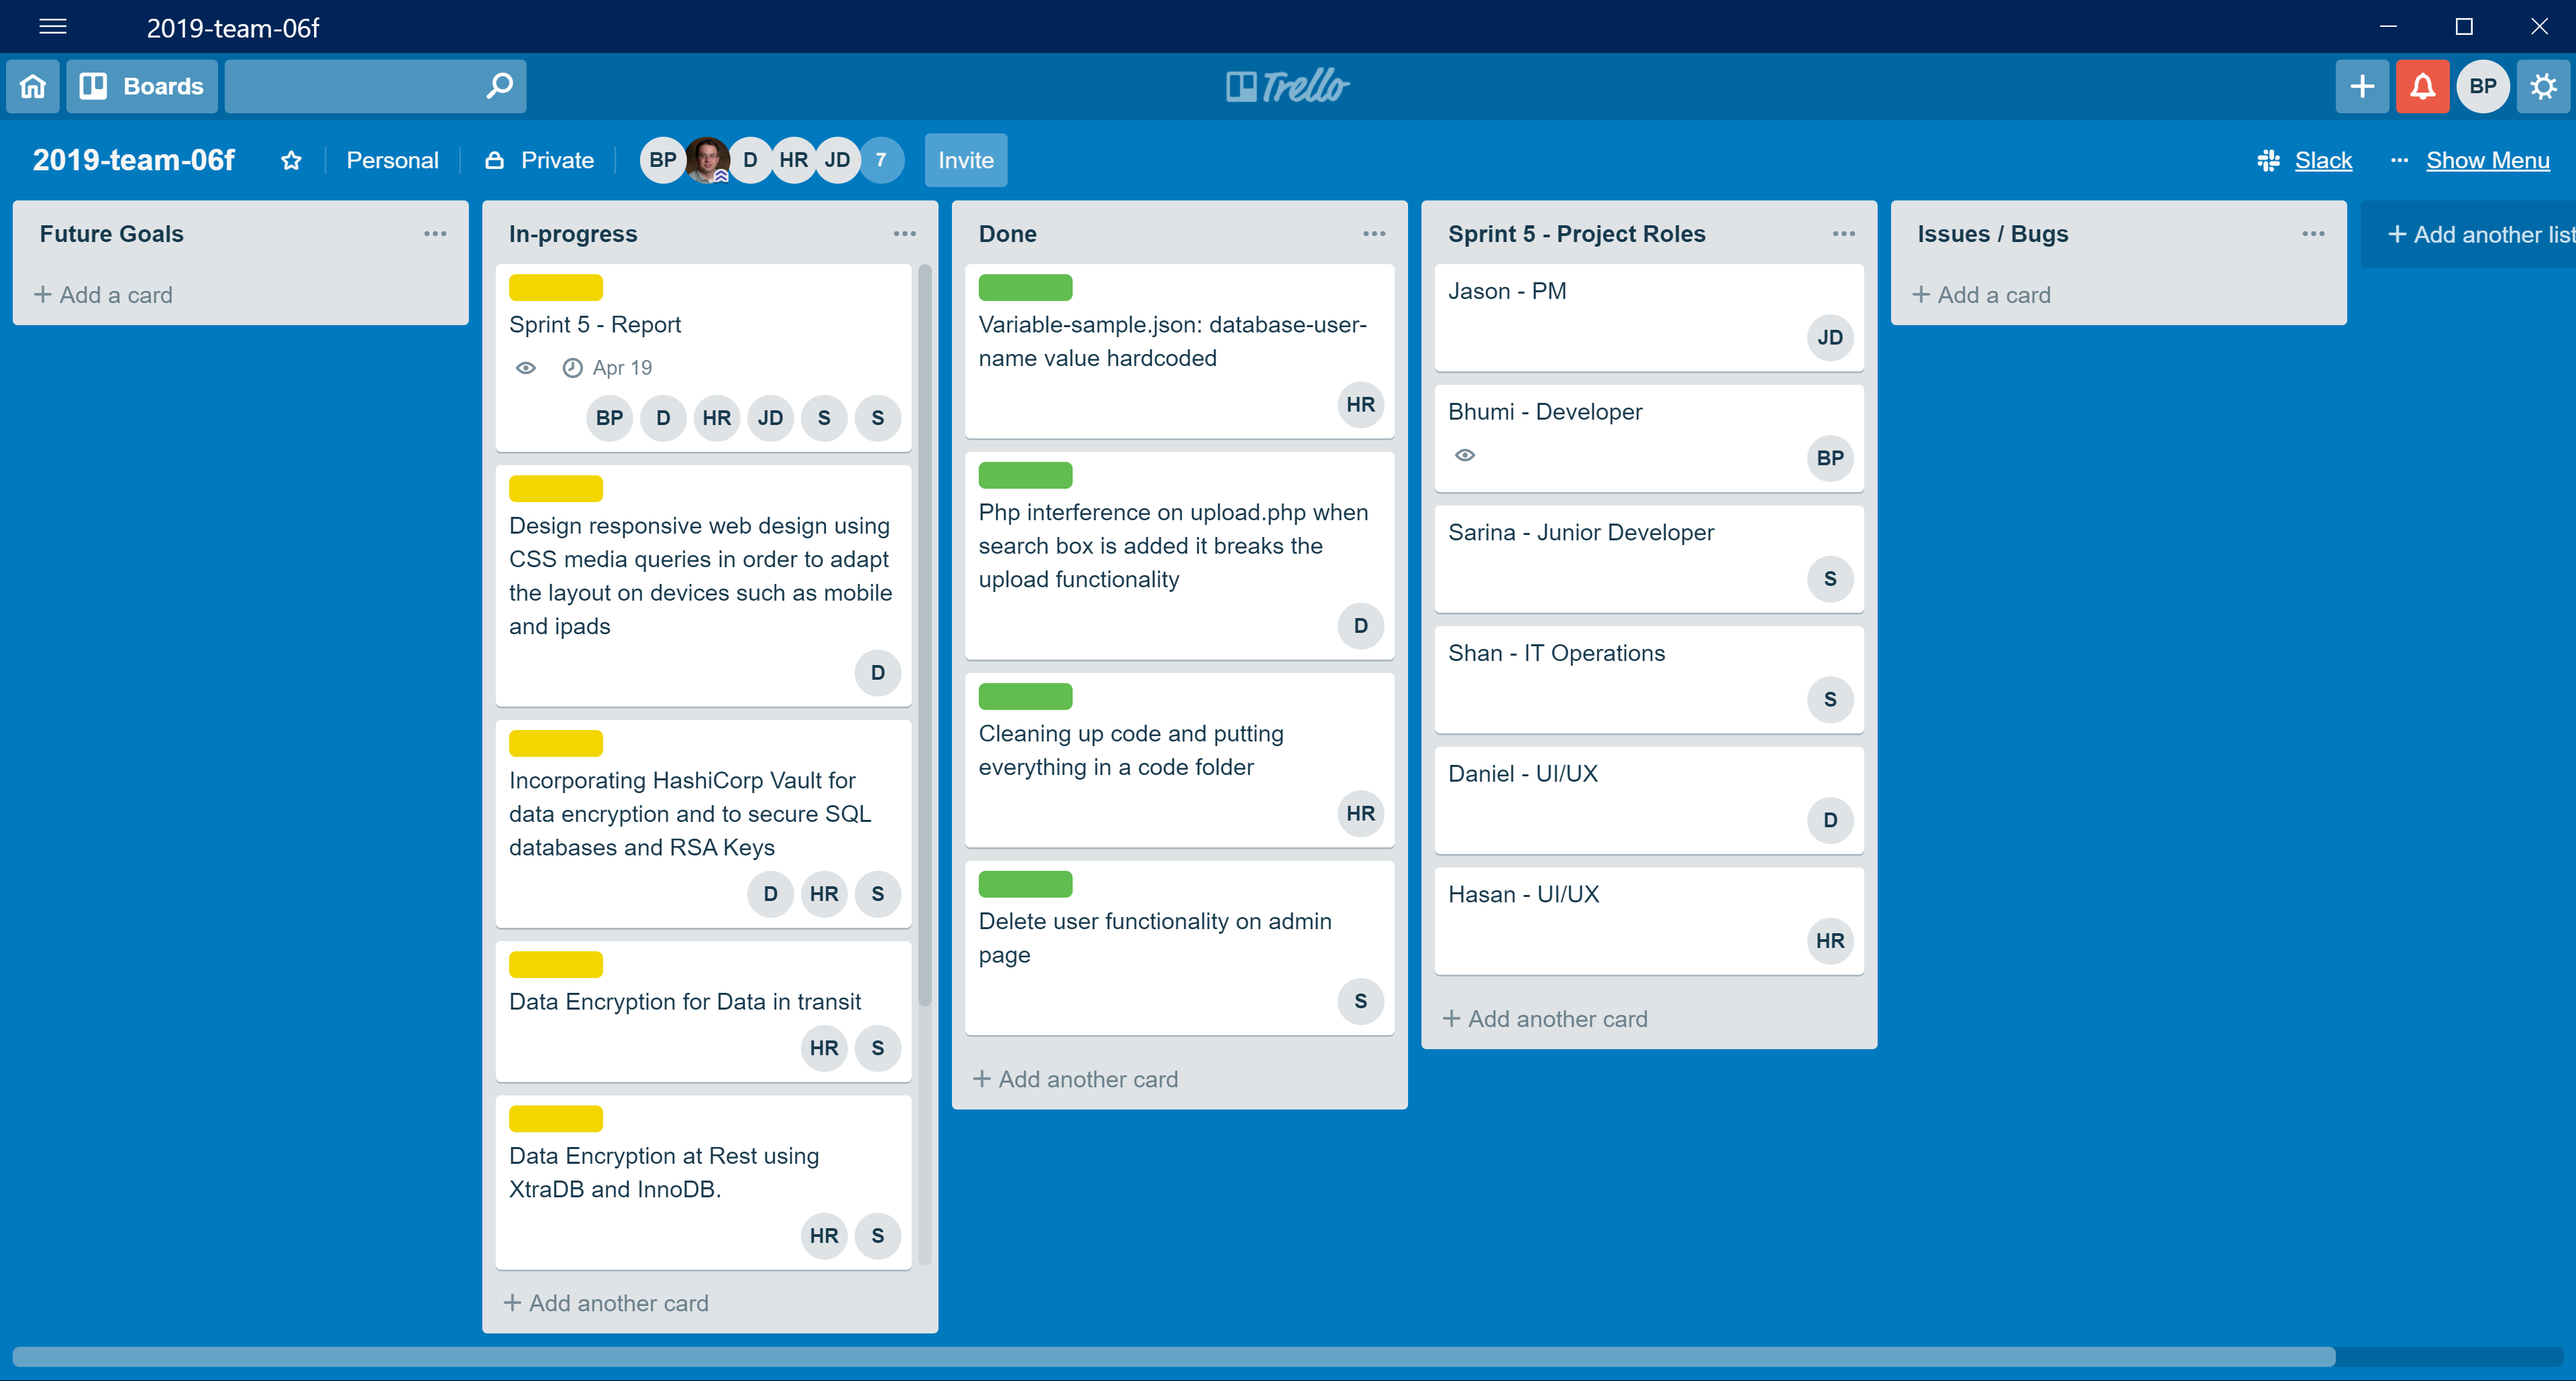
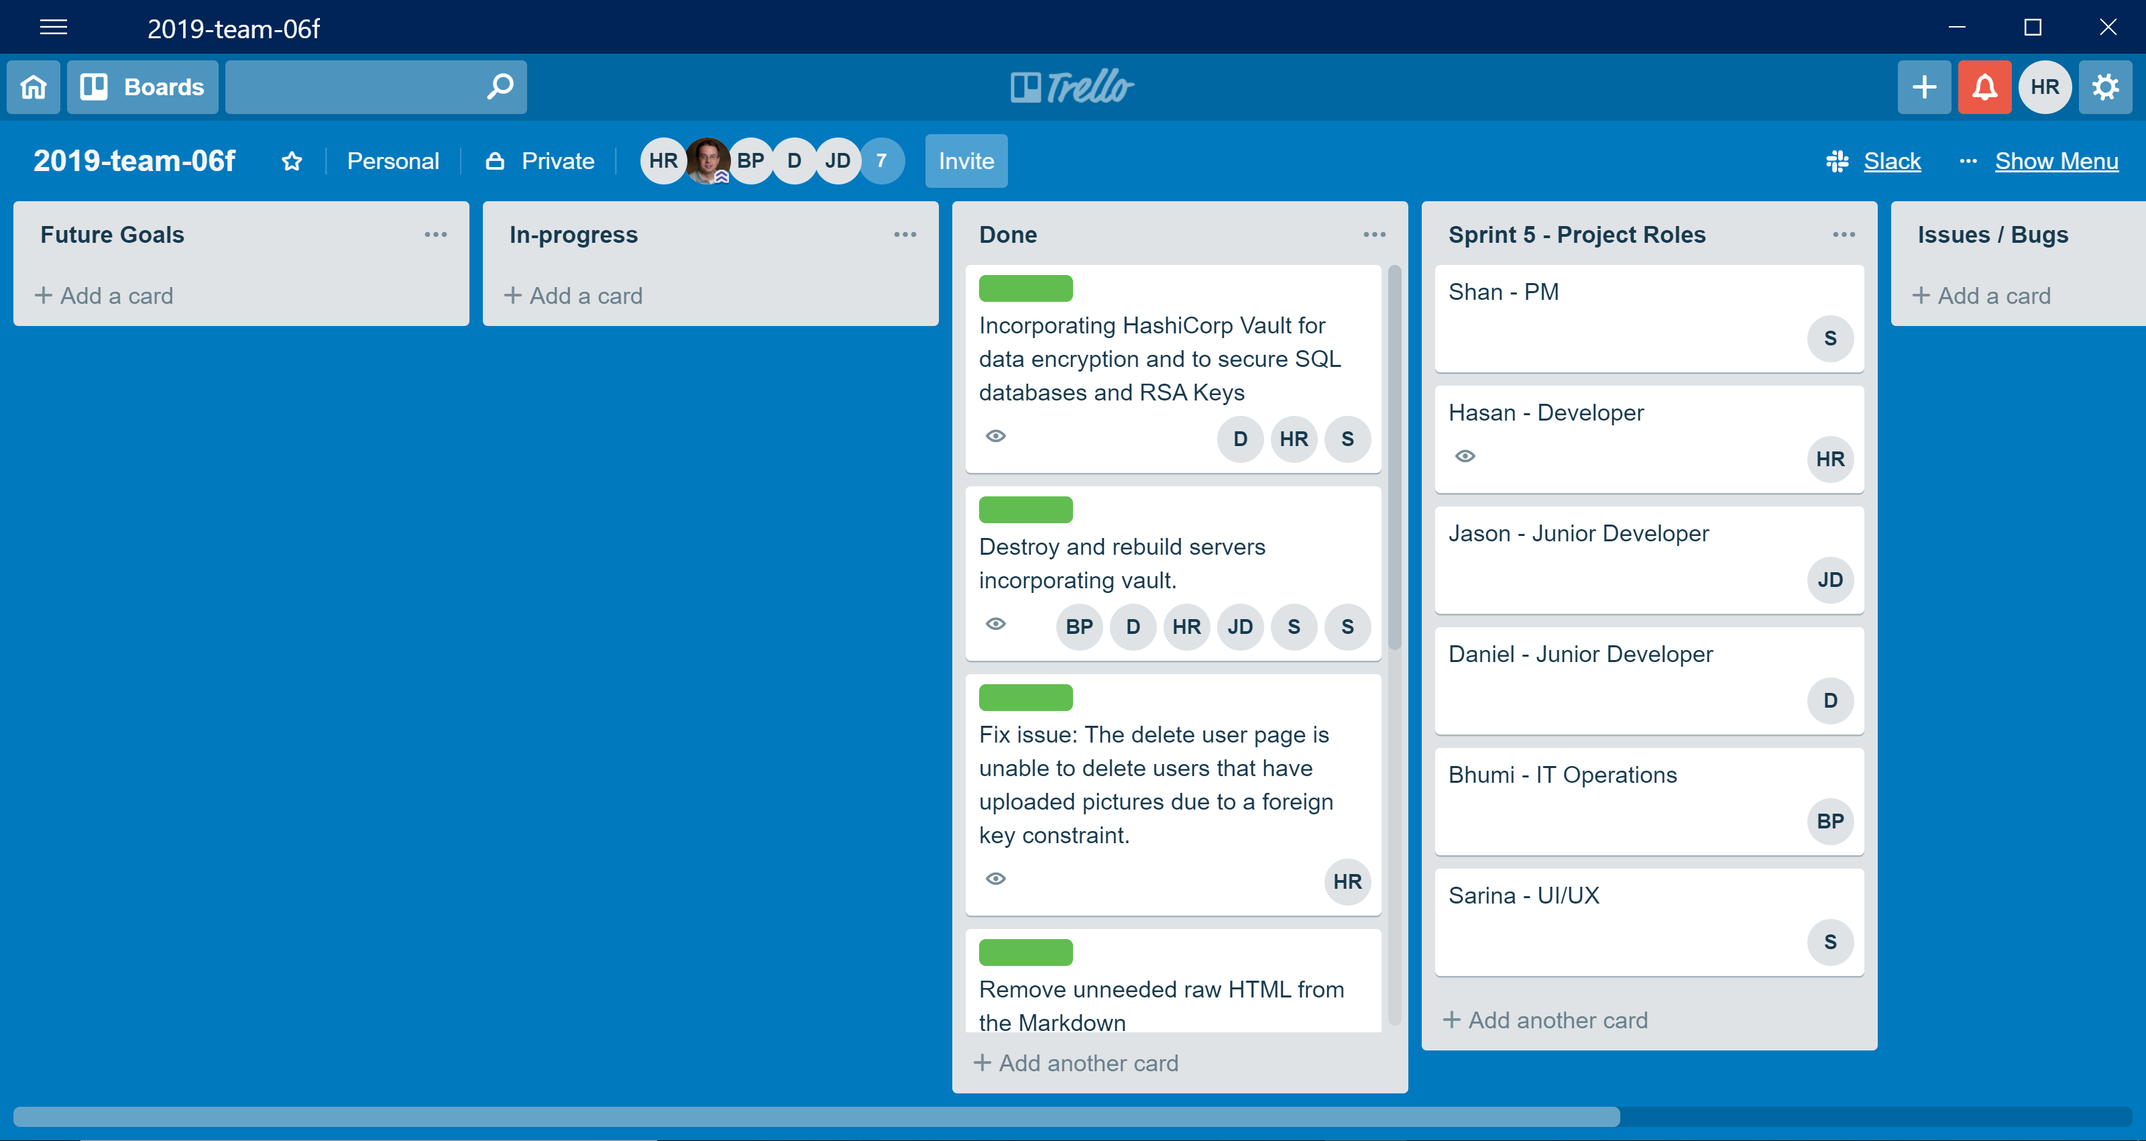
trello

diff --git a/reports/sprint-06/report.md b/reports/sprint-06/report.md
@@ -19,16 +19,17 @@
 * Design responsive web design using CSS media queries in order to adapt the layout on devices such as mobile and ipads.
 * Fixed column spacing alignment for admin panel (create user) and register page google chrome browser.
 * Fix issue: The delete user page is unable to delete users that have uploaded pictures due to a foreign key constraint.
+* Remove unneeded raw HTML from the Markdown
 
 
-### Project Accomplishments: Goals Accomplished (6/6)
+### Project Accomplishments: Goals Accomplished (7/7)
 * Incorporating HashiCorp Vault for data encryption and to secure SQL databases and RSA Keys.
 * Rewriting build instructions
 * Destroy and rebuild all servers on each team members machine, incorporating vault.
 * Design responsive web design using CSS media queries in order to adapt the layout on devices such as mobile and ipads.
 * Fixed column spacing alignment for admin panel (create user) and register page google chrome browser.
 * Fix issue: The delete user page is unable to delete users that have uploaded pictures due to a foreign key constraint.
-
+* Remove unneeded raw HTML from the Markdown
 
 
 ### Project Requirements:
@@ -272,13 +273,6 @@ Mobile media queries commit: https://github.com/illinoistech-itm/2019-team-06f/c
  ![15testusers](images/15testusers.png "15 Test Users")
  ![testusers](images/testusers.png "Test Users")
  ![testimages](images/testimages.png "Test Images")
-
-**Any issues/Bugs?**
-
-
-
-**Goals for Next Sprint:**
-
 
 
 #### Individual Reflections:
